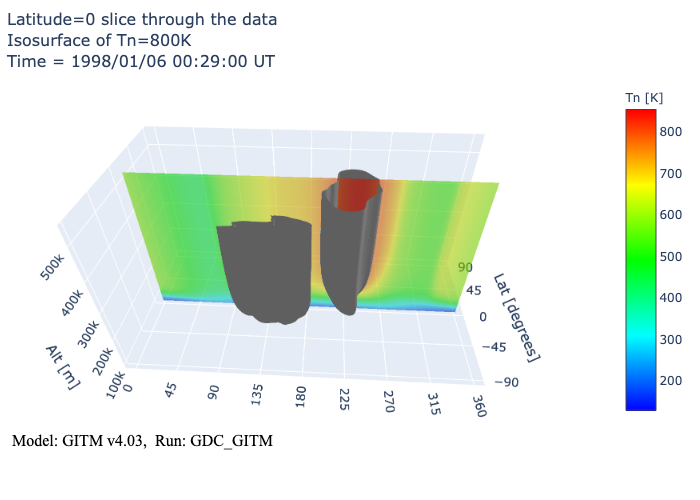
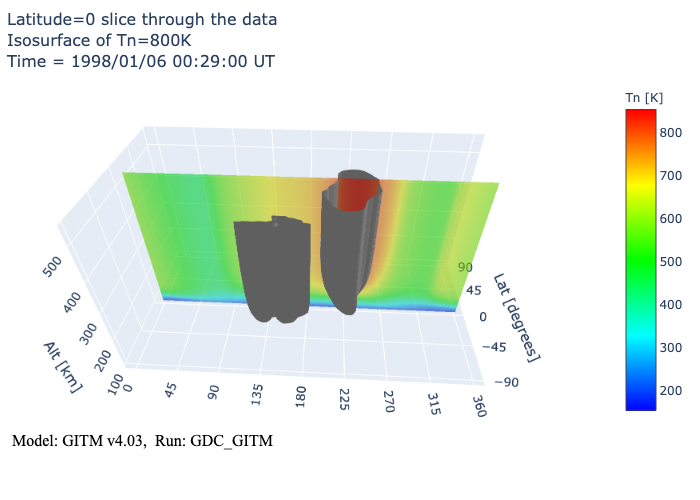
reduced isosurface resolution

diff --git a/kamodo/readers/gitm/gitmK.py b/kamodo/readers/gitm/gitmK.py
@@ -552,9 +552,9 @@ class GITM(Kamodo):
             return fig
 
         if plottype == "iso":
-            ilon = np.linspace(0, 360, 181) #181
-            ilat = np.linspace(-90, 90, 91) #91
-            step=5000. # 5000.
+            ilon = np.linspace(0, 360, 73) #181
+            ilat = np.linspace(-90, 90, 37) #91
+            step=10000. # 5000.
             alt1=(step*round(self.alt[2]/step))
             alt2=self.alt[(self.alt.shape[0]-3)]
             nalt=round((alt2-alt1)/step)
@@ -599,7 +599,7 @@ class GITM(Kamodo):
             fig1 = go.Figure(data=go.Isosurface(
                 x=xx.flatten(),
                 y=yy.flatten(),
-                z=zz.flatten(),
+                z=zz.flatten()/1000.,
                 value=result.flatten(),
                 opacity=0.6,
                 isomin=cmin,
@@ -611,7 +611,7 @@ class GITM(Kamodo):
                 slices_y=dict(show=True, locations=[slicevalue]),
             ))
             fig1.update_traces(
-                hovertemplate="<b>Slice</b><br>Lon: %{x:.0f}<br>Lat: %{y:.0f}<br>Alt: %{z:.0f}m<br><extra></extra>"
+                hovertemplate="<b>Slice</b><br>Lon: %{x:.0f}<br>Lat: %{y:.0f}<br>Alt: %{z:.0f}km<br><extra></extra>"
             )
             if colorscale == "BlueRed":
                 fig1.update_traces(colorscale="RdBu", reversescale=True)
@@ -628,7 +628,7 @@ class GITM(Kamodo):
             fig2 = go.Figure(data=go.Isosurface(
                 x=xx.flatten(),
                 y=yy.flatten(),
-                z=zz.flatten(),
+                z=zz.flatten()/1000.,
                 value=result.flatten(),
                 opacity=1.,
                 colorscale=[[0.0, '#777777'],[1.0, '#777777']],
@@ -637,12 +637,12 @@ class GITM(Kamodo):
                 surface=dict(count=1, fill=1., pattern='all'),
                 caps=dict(x_show=False, y_show=False, z_show=False),
                 showscale=False, # remove colorbar
-                hovertemplate="<b>Isosurface</b><br>Lon: %{x:.0f}<br>Lat: %{y:.0f}<br>Alt: %{z:.0f}m<extra></extra>"
+                hovertemplate="<b>Isosurface</b><br>Lon: %{x:.0f}<br>Lat: %{y:.0f}<br>Alt: %{z:.0f}km<extra></extra>"
             ))
             fig2.update_scenes(
                 xaxis=dict(title=dict(text="Lon [degrees]"),tick0=0.,dtick=45.),
                 yaxis=dict(title=dict(text="Lat [degrees]"),tick0=0.,dtick=45.),
-                zaxis=dict(title=dict(text="Alt [m]"))
+                zaxis=dict(title=dict(text="Alt [km]"))
             )
             fig2.update_layout(
                 scene_camera_eye=dict(x=.1, y=-1.8, z=1.5),
